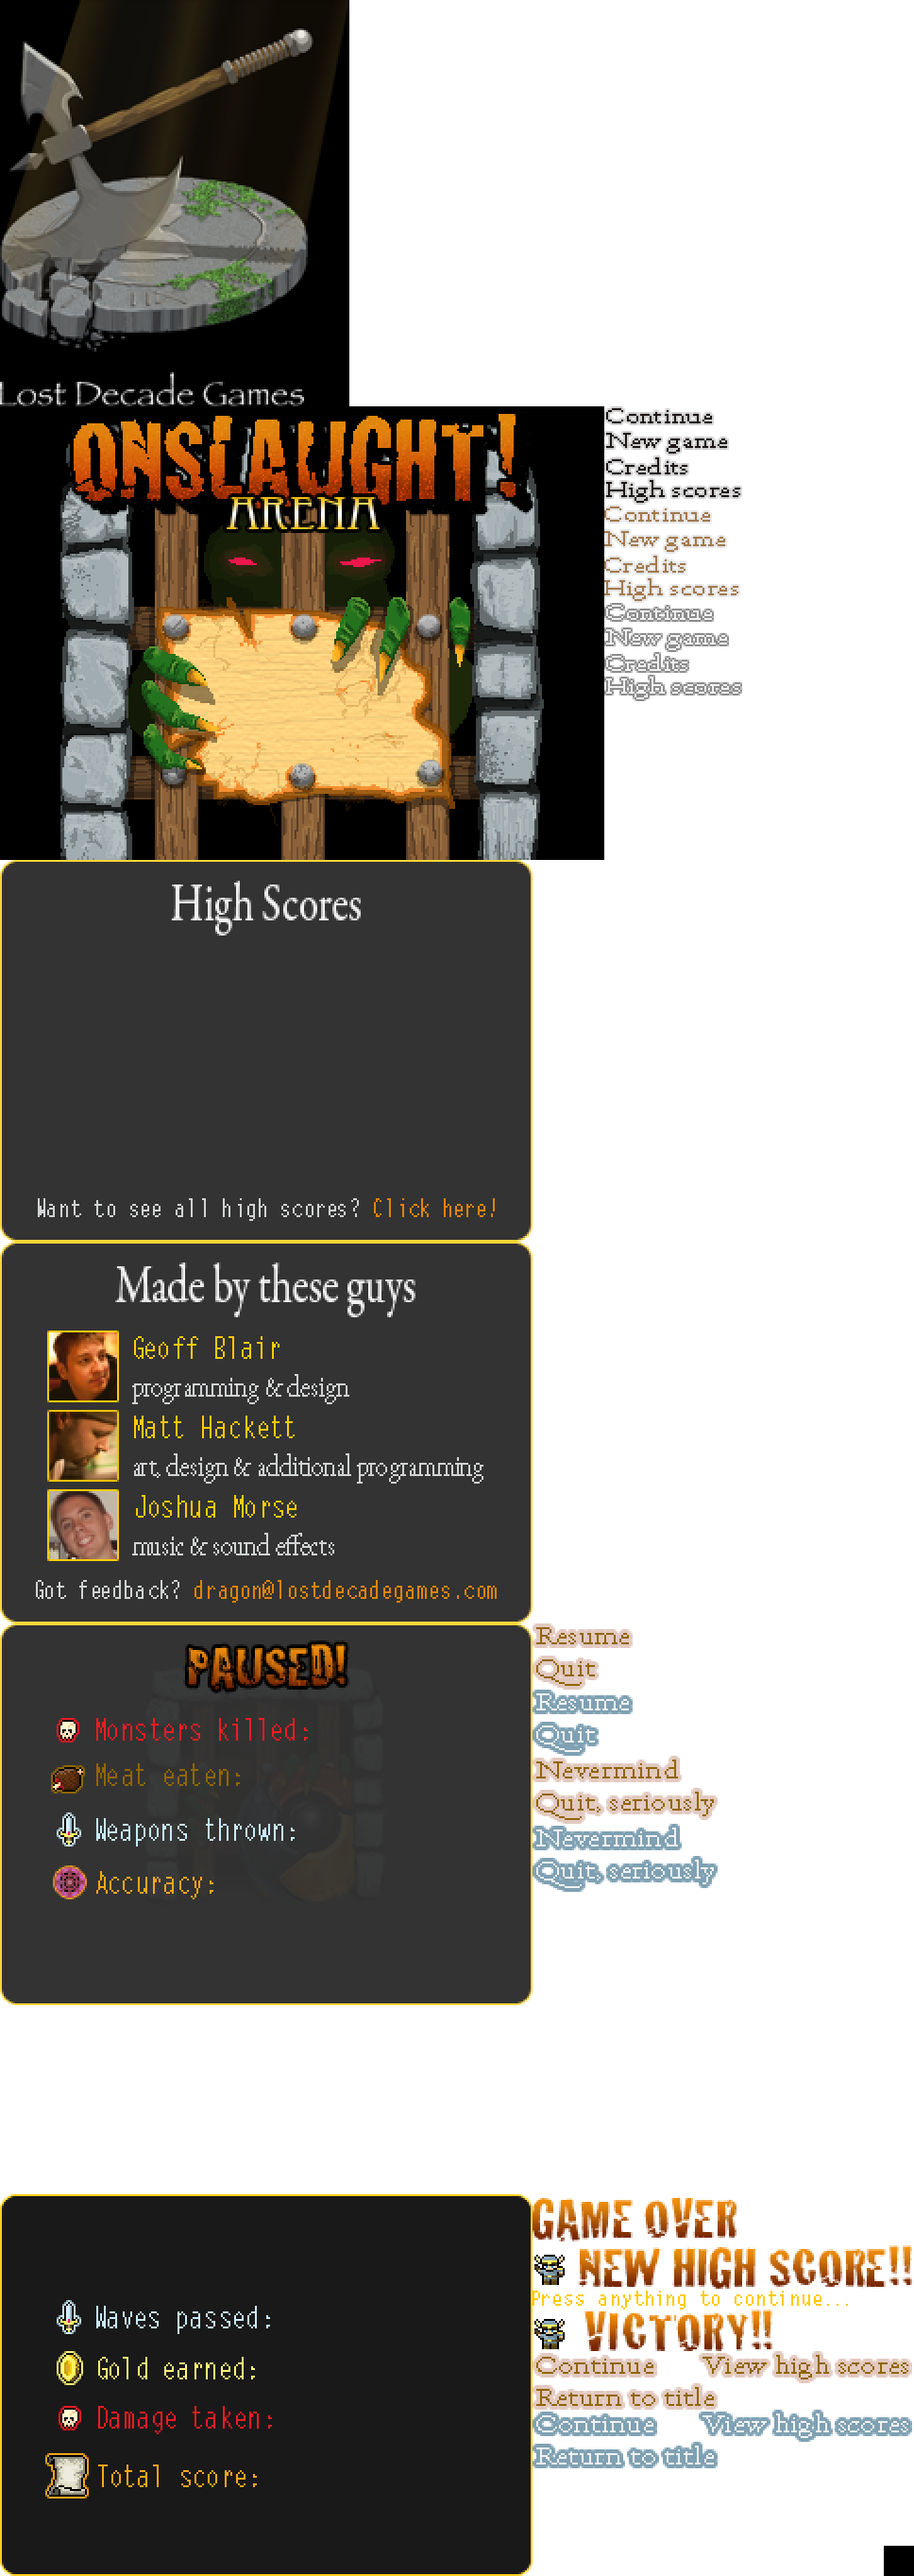
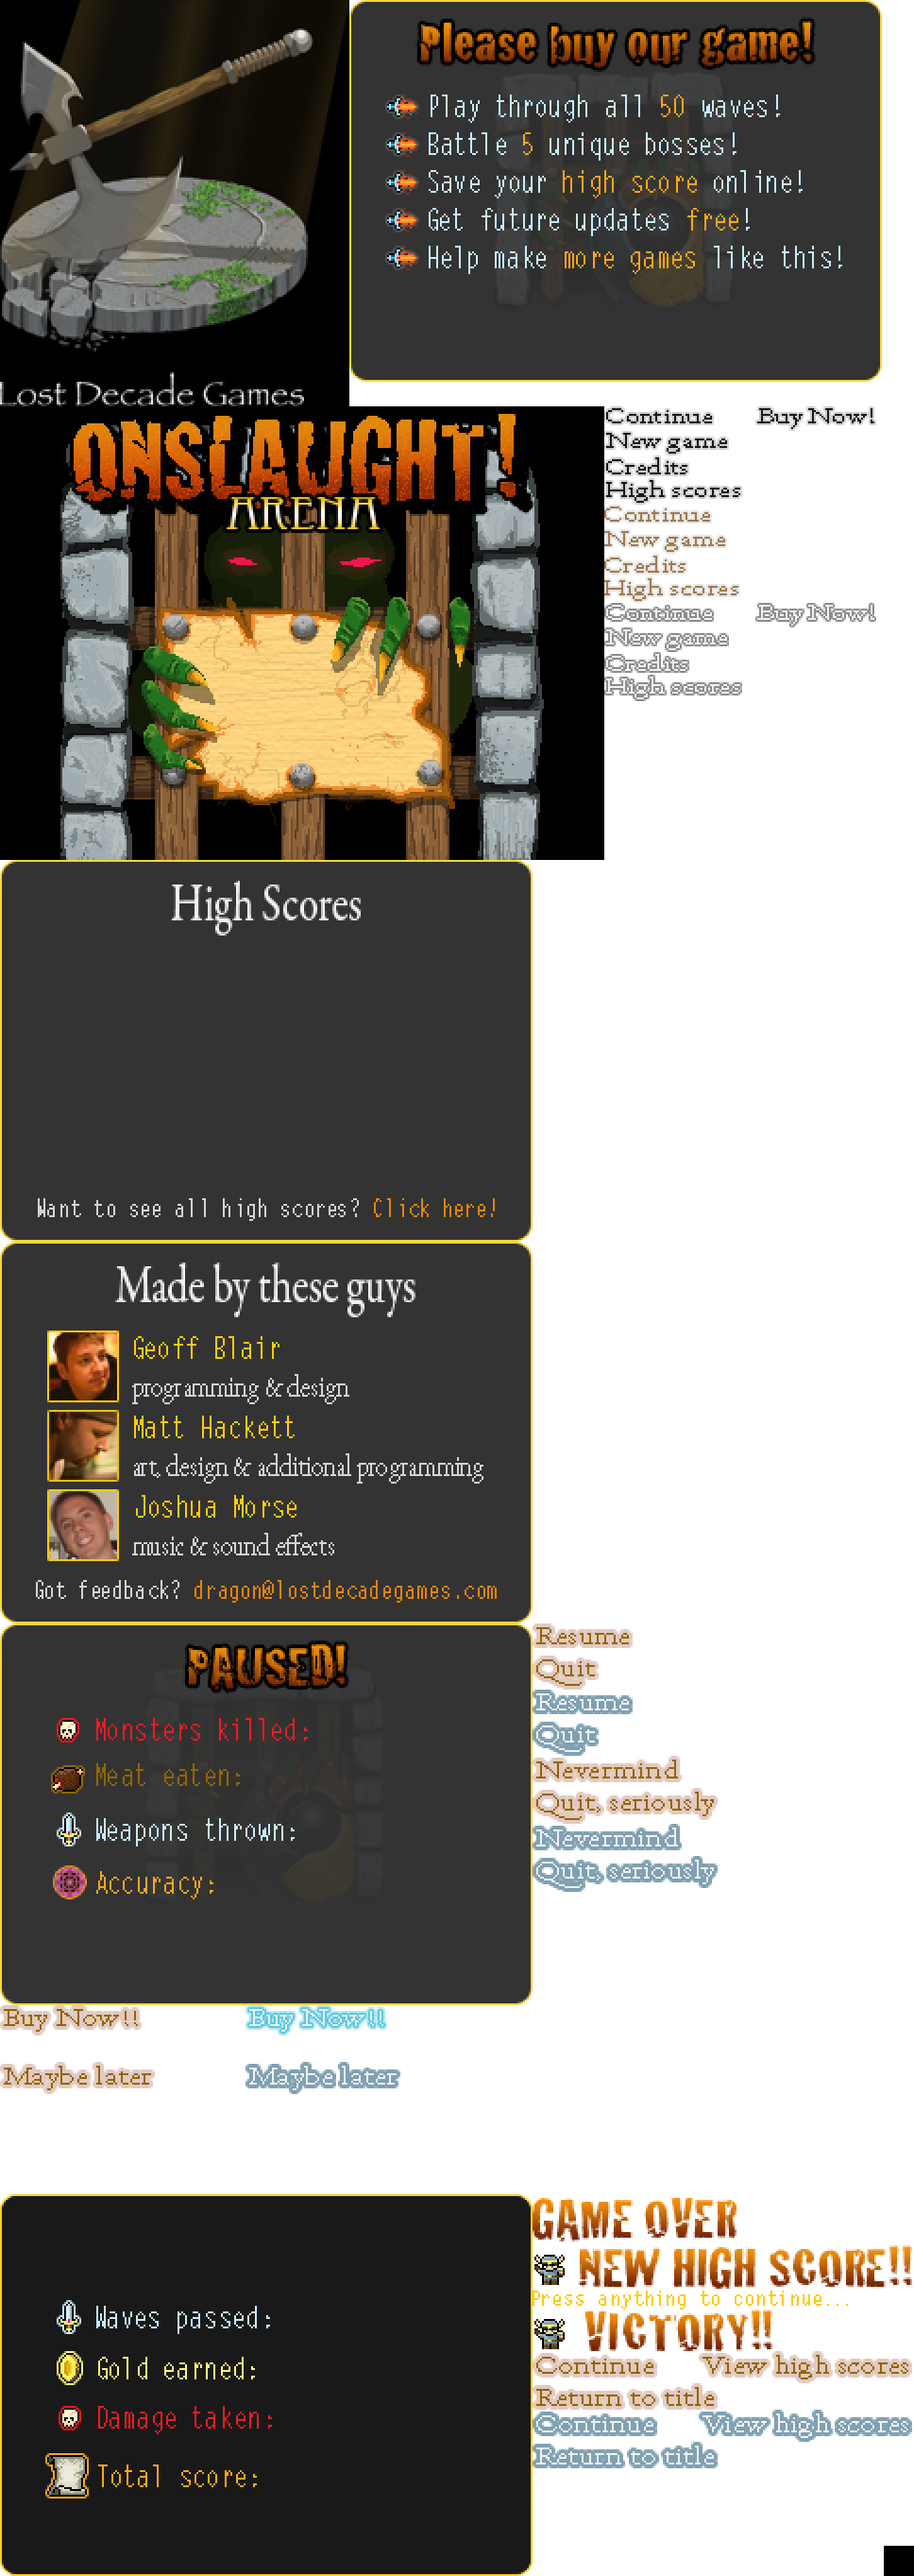
demo update for #162. set var DEMO = true; to see

diff --git a/htdocs/js/engine.js b/htdocs/js/engine.js
@@ -14,6 +14,8 @@ var SCREEN_HEIGHT = 480;
 var TEXT_HEIGHT = 20; // Ehh, kind of a hack, because stupid ctx.measureText only gives width (why??).
 var TUTORIAL_HEIGHT = 70;
 var TUTORIAL_NUM_TIPS = 4;
+var URL_HIGH_SCORES = "/onslaught_arena/high_scores";
+var URL_STORE = "http://www.google.com/chrome/intl/en/landing_chrome_mac.html?hl=en"; // TODO
 
 var COLOR_BLACK = "rgb(0, 0, 0)";
 var COLOR_WHITE = "rgb(241, 241, 242)";
@@ -44,7 +46,7 @@ horde.Engine = function horde_Engine () {
 	// Sword pointer
 	this.pointerY = 0;
 	this.pointerYStart = 0;
-	this.numPointerOptions = 0;
+	this.maxPointerY = 0;
 	this.pointerOptionsStart = 0;
 	
 	this.targetReticle = {
@@ -1373,6 +1375,11 @@ proto.update = function horde_Engine_proto_update () {
 			this.render();
 			break;
 
+		case "buy_now":
+			this.handleInput();
+			this.render();
+			break;
+
 	}
 
 	if (!this.hideReticleTimer) {
@@ -2533,8 +2540,8 @@ proto.handleInput = function horde_Engine_proto_handleInput () {
 		var stopX = (POINTER_X + 130);
 		var startY = (this.pointerYStart - 22);
 
-		// Continue
-		if (this.canContinue()) {
+		// Buy Now! or Continue
+		if (DEMO || this.canContinue()) {
 			if (
 				(mouseV.x >= startX && mouseV.x <= stopX)
 				&& (mouseV.y >= startY && mouseV.y < (startY + 20))
@@ -2592,22 +2599,28 @@ proto.handleInput = function horde_Engine_proto_handleInput () {
 			this.mouse.clearButtons();
 
 			switch (this.pointerY) {
-				case 0: // Continue
-					var checkpointWave = this.getData("checkpoint_wave");
-					if (checkpointWave !== null) {
-						// Checkpoint data exists
-						this.currentWaveId = (checkpointWave - 1);
-						var checkpointHero = this.getData("checkpoint_hero");
-						if (checkpointHero !== null) {
-							var player = this.getPlayerObject();
-							player.load(checkpointHero);
-							// Start the player at full life but ding him for the amount of wounds he had
-							player.totalDamageTaken += player.wounds;
-							player.wounds = 0;
+				case 0:
+					if (DEMO) {
+						// Buy Now!
+						open(URL_STORE);
+					} else {
+						// Continue
+						var checkpointWave = this.getData("checkpoint_wave");
+						if (checkpointWave !== null) {
+							// Checkpoint data exists
+							this.currentWaveId = (checkpointWave - 1);
+							var checkpointHero = this.getData("checkpoint_hero");
+							if (checkpointHero !== null) {
+								var player = this.getPlayerObject();
+								player.load(checkpointHero);
+								// Start the player at full life but ding him for the amount of wounds he had
+								player.totalDamageTaken += player.wounds;
+								player.wounds = 0;
+							}
+							this.continuing = true;
+							this.showTutorial = false;
+							this.state = "intro_cinematic";
 						}
-						this.continuing = true;
-						this.showTutorial = false;
-						this.state = "intro_cinematic";
 					}
 					break;
 				case 1: // New game
@@ -2627,12 +2640,63 @@ proto.handleInput = function horde_Engine_proto_handleInput () {
 
 	}
 
+	if (this.state == "buy_now") {
+
+		usingPointerOptions = true;
+
+		var startY = (this.pointerYStart - 22);
+
+		// Buy Now!!
+		if (
+			(mouseV.x >= POINTER_X && mouseV.x <= (POINTER_X + 106))
+			&& (mouseV.y > startY && mouseV.y < (startY + (POINTER_HEIGHT - 1)))
+		) {
+			if (this.mouse.hasMoved && this.pointerY !== 0) newPointerY = 0;
+			if (this.mouse.isButtonDown(buttons.LEFT)) {
+				this.keyboard.keyStates[keys.SPACE] = true;
+			}
+		}
+
+		// No thanks
+		if (
+			(mouseV.x >= POINTER_X && mouseV.x <= (POINTER_X + 106))
+			&& (mouseV.y > (startY + POINTER_HEIGHT) && mouseV.y < ((startY + POINTER_HEIGHT) + 36))
+		) {
+			if (this.mouse.hasMoved && this.pointerY !== 1) newPointerY = 1;
+			if (this.mouse.isButtonDown(buttons.LEFT)) {
+				this.keyboard.keyStates[keys.SPACE] = true;
+			}
+		}
+		
+		if (kb.isKeyPressed(keys.ENTER) || kb.isKeyPressed(keys.SPACE)) {
+
+			kb.clearKey(keys.ENTER);
+			kb.clearKey(keys.SPACE);
+			this.mouse.clearButtons();
+
+			horde.sound.play("select_pointer");
+
+			switch (this.pointerY) {
+				case 0: // Buy Now!!
+					open(URL_STORE);
+					break;
+				case 1: // No thanks
+					this.initGame();
+					break;
+			}
+
+			this.initGame();
+
+		}
+
+	}
+
 	// Want to see all high scores? Click here!
 	if (this.state === "high_scores") {
 		if (this.mouse.isButtonDown(buttons.LEFT)) {
 			if ((mouseV.x > 76) && (mouseV.x < 560)) {
 				if ((mouseV.y > 392) && (mouseV.y < 416)) {
-					open("/onslaught_arena/high_scores");
+					open(URL_HIGH_SCORES);
 					return;
 				}
 			}
@@ -2671,7 +2735,7 @@ proto.handleInput = function horde_Engine_proto_handleInput () {
 			this.keyboard.keyStates[keys.W] = false;
 			this.keyboard.keyStates[keys.UP] = false;
 			this.pointerY--;
-			if (this.pointerY < this.pointerOptionsStart) this.pointerY = this.numPointerOptions;
+			if (this.pointerY < this.pointerOptionsStart) this.pointerY = this.maxPointerY;
 			horde.sound.play("move_pointer");
 		}
 		if (
@@ -2681,7 +2745,7 @@ proto.handleInput = function horde_Engine_proto_handleInput () {
 			this.keyboard.keyStates[keys.S] = false;
 			this.keyboard.keyStates[keys.DOWN] = false;
 			this.pointerY++;
-			if (this.pointerY > this.numPointerOptions) this.pointerY = this.pointerOptionsStart;
+			if (this.pointerY > this.maxPointerY) this.pointerY = this.pointerOptionsStart;
 			horde.sound.play("move_pointer");
 		}
 
@@ -3009,6 +3073,11 @@ proto.render = function horde_Engine_proto_render () {
 		case "game_over":
 			this.drawGameOver(ctx);
 			break;
+
+		case "buy_now":
+			this.drawBuyNow(ctx);
+			this.drawPointer(ctx);
+			break;
 		
 	}
 
@@ -3135,8 +3204,12 @@ proto.drawGameOver = function horde_Engine_proto_drawGameOver (ctx) {
 			this.mouse.clearButtons();
 			this.statsIndex += 1;
 			if (this.statsIndex >= 5) {
-				horde.sound.stop("victory");
-				this.initGame();
+				if (DEMO) {
+					this.state = "buy_now";
+				} else {
+					horde.sound.stop("victory");
+					this.initGame();
+				}
 				return;
 			}
 		}
@@ -3184,6 +3257,43 @@ proto.drawGameOver = function horde_Engine_proto_drawGameOver (ctx) {
 		
 	}
 	
+};
+
+proto.drawBuyNow = function horde_Engine_proto_drawBuyNow (ctx) {
+
+	ctx.save();
+
+	ctx.globalAlpha = OVERLAY_ALPHA;
+	ctx.fillRect(0, 0, this.view.width, this.view.height);
+
+	ctx.globalAlpha = 1;
+	ctx.drawImage(
+		this.preloader.getImage("ui"),
+		370, 0, 564, 404,
+		38, 38, 564, 404
+	);
+	ctx.restore();
+
+	var startY = (this.pointerYStart - 22);
+	var spriteX;
+
+	// Buy Now!!
+	spriteX = ((this.pointerY == 0) ? 260 : 0);
+	ctx.drawImage(
+		this.preloader.getImage("ui"),
+		spriteX, 2122, 200, 40,
+		POINTER_X, startY, 200, 40
+	);
+
+	// Quit
+	spriteX = ((this.pointerY == 1) ? 260 : 0);
+	startY += POINTER_HEIGHT;
+	ctx.drawImage(
+		this.preloader.getImage("ui"),
+		spriteX, 2182, 200, 40,
+		POINTER_X, startY, 200, 40
+	);
+
 };
 
 proto.drawObjectStats = function horde_Engine_proto_drawObjectStats (object, ctx) {
@@ -3709,6 +3819,7 @@ proto.drawTitle = function horde_Engine_proto_drawTitle (ctx) {
 
 	// Version
 	var version = ("v" + VERSION);
+	if (DEMO) version += " demo";
 	ctx.save();
 	ctx.font = "Bold 14px Monospace";
 	ctx.textAlign = "right";
@@ -3761,17 +3872,27 @@ proto.drawTitlePointerOptions = function horde_Engine_proto_drawTitlePointerOpti
 	var startY = (this.pointerYStart - 22);
 	var spriteY;
 
-	// Continue
-	if (this.canContinue()) {
+	if (DEMO) {
+		// Buy now!!
 		spriteY = ((this.pointerY == 0) ? 638 : 430);
+		ctx.drawImage(
+			this.preloader.getImage("ui"),
+			800, spriteY, 128, 26,
+			POINTER_X, startY, 128, 26
+		);
 	} else {
-		spriteY = 534;
+		// Continue
+		if (this.canContinue()) {
+			spriteY = ((this.pointerY == 0) ? 638 : 430);
+		} else {
+			spriteY = 534;
+		}
+		ctx.drawImage(
+			this.preloader.getImage("ui"),
+			640, spriteY, 116, 20,
+			POINTER_X, startY, 116, 20
+		);
 	}
-	ctx.drawImage(
-		this.preloader.getImage("ui"),
-		640, spriteY, 116, 20,
-		POINTER_X, startY, 116, 20
-	);
 
 	// New game
 	spriteY = ((this.pointerY == 1) ? 664 : 456);
@@ -3850,7 +3971,7 @@ proto.initOptions = function () {
 		case "title":
 			this.pointerYStart = 300;
 
-			if (this.canContinue()) {
+			if (DEMO || this.canContinue()) {
 				this.pointerY = 0;
 				this.pointerOptionsStart = 0;
 			} else {
@@ -3858,17 +3979,23 @@ proto.initOptions = function () {
 				this.pointerOptionsStart = 1;
 			}
 			if (this.showHighScores()) {
-				this.numPointerOptions = 3;
+				this.maxPointerY = 3;
 			} else {
-				this.numPointerOptions = 2;
+				this.maxPointerY = 2;
 			}
 			break;
 		case "running":
 			this.pointerYStart = 378;
 			this.pointerY = 0;
-			this.numPointerOptions = 1;
+			this.maxPointerY = 1;
 			this.pointerOptionsStart = 0;
 			this.verifyQuit = false;
+			break;
+		case "buy_now":
+			this.pointerYStart = 378;
+			this.pointerY = 0;
+			this.maxPointerY = 1;
+			this.pointerOptionsStart = 0;
 			break;
 	}
 

diff --git a/htdocs/js/object_types.js b/htdocs/js/object_types.js
@@ -78,7 +78,7 @@ o.h_fireball = {
 	speed: 400,
 	rotateSpeed: 350,
 	hitPoints: 1,
-	damage: 2,
+	damage: 3,
 	spriteSheet: "objects",
 	spriteX: 192,
 	spriteY: 0,
